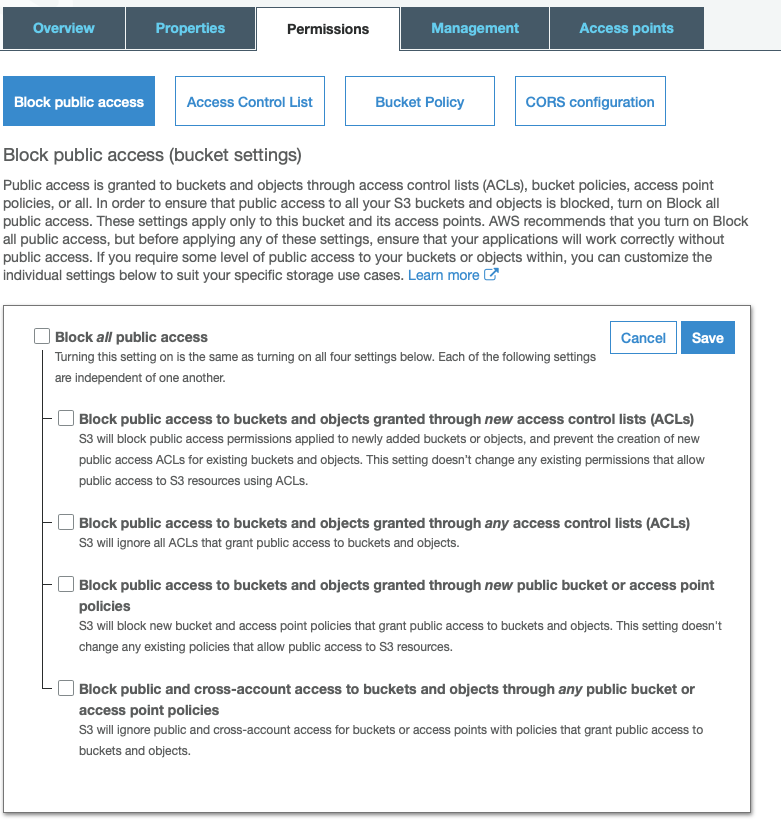
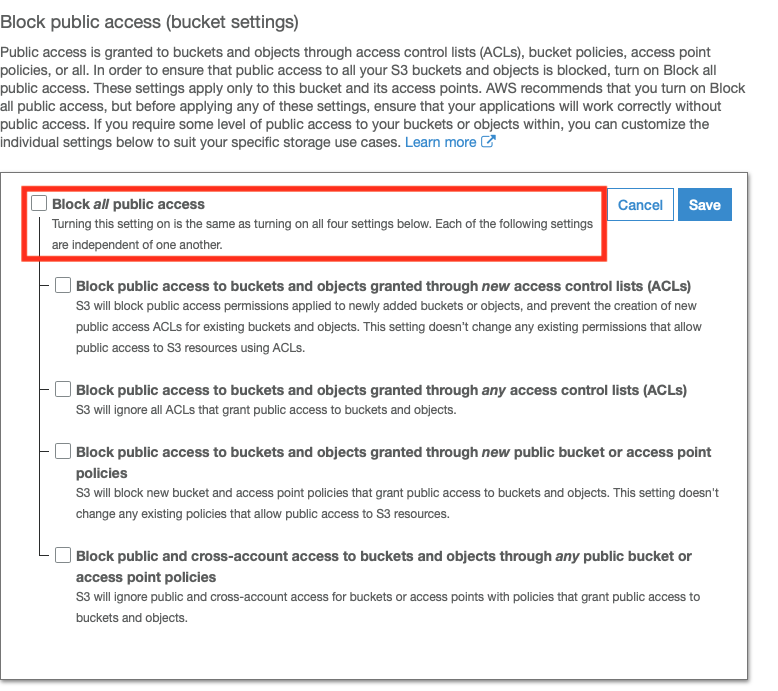
simple typos and minor improvments

Changed region(s): [[0.0, 0.0, 0.9871, 1.0]]

diff --git a/docs/README.md b/docs/README.md
@@ -2,12 +2,15 @@
 
 The AWS Edge Services provide solutions for customers who need fast access to their data and can benefit from caching data and processing data at the edge.
 
-This repository contains introductory documentation and code in the format of hands-on labs to help you learn, measure, and build using AWS Edge Services: Amazon CloudFront, AWS Lambda@Edge], Amazon S3 Transfer Acceleration, AWS WAF. 
+This repository contains introductory documentation and code in the format of hands-on labs to help you learn, measure, and build using AWS Edge Services: Amazon CloudFront, AWS Lambda@Edge, Amazon S3 Transfer Acceleration, AWS WAF. 
 
 # Prerequisites:
 
 An AWS account that you are able to use for testing, that is not used for production or other purposes. NOTE: You will be billed for any applicable AWS resources used if you complete this lab that are not covered in the AWS Free Tier.
 
+If the resources that you use for this workshop are left undeleted you will incur charges on your AWS account.
+
+You must complete the following modules in **US East (N. Virginia)**.
 
 ## Content
 

diff --git a/docs/CloudFront/Accelerate_your_content/Lab_Guide.md b/docs/CloudFront/Accelerate_your_content/Lab_Guide.md
@@ -2,7 +2,7 @@
 
 In this section, you will create both S3 and EC2 origin using a provided CloudFormation template.
 
-1.- Go to _CloudFormation_ console in **US East (N. Virginia)** _us-east-1_ region; and then click  _**Create stack**_.
+1.- Go to _CloudFormation_ console in **US East (N. Virginia)** _us-east-1_ region; and then click  **Create stack**.
 
 ![accelerate_origin_1a](/assets/images/cloudfront/accelerate_origin_1a.png)
 
@@ -313,7 +313,7 @@ In this section, you will configure an origin group to provide rerouting during 
 
 ![accelerate_origingroup_1b](/assets/images/cloudfront/accelerate_origingroup_1b.png)  
 
-<br/>
+For _Bucket settings for Block Public Access_, uncheck **Block all public access**. Validate the configurations, check **I acknowledge...** and click **Create bucket.
 
 ![accelerate_origingroup_1c](/assets/images/cloudfront/accelerate_origingroup_1c.png) 
 

diff --git a/README.md b/README.md
@@ -1,6 +1,6 @@
 # Edge Services Workshops
 
-Visit the website (https://edgeservices-workshops.builder-culture.com)[https://edgeservices-workshops.builder-culture.com/]
+Visit the website [https://edgeservices-workshops.builder-culture.com](https://edgeservices-workshops.builder-culture.com/)
 
 
 ### Labs:
